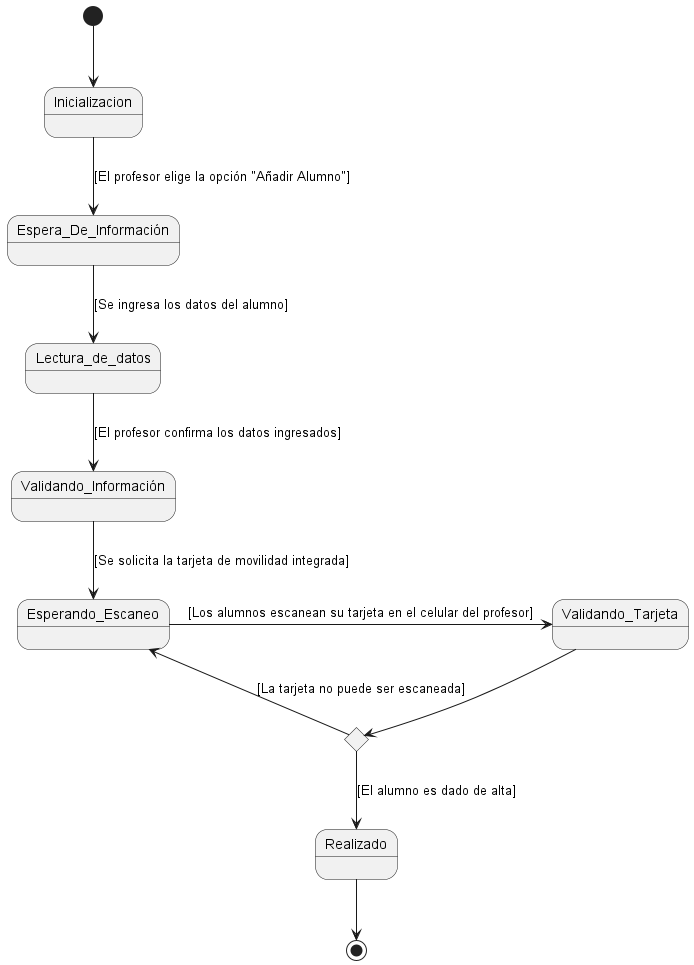
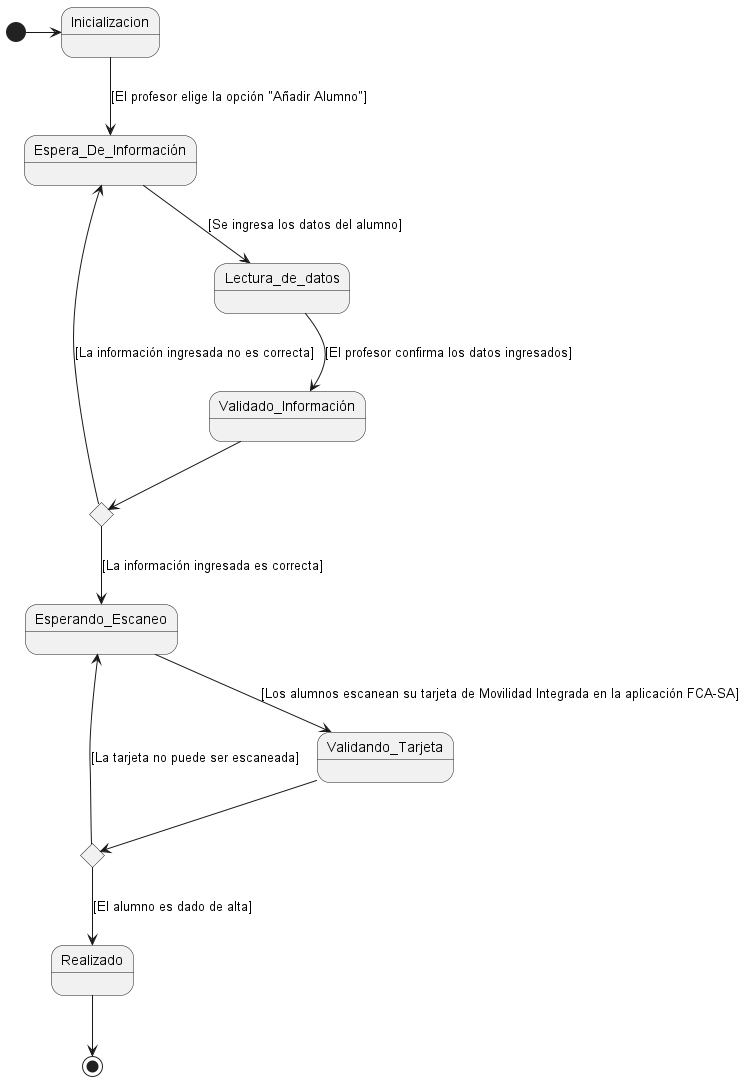
FCA SA: Correcciones
Se corrigen los Diagramas de Estados
Se agregan definiciones

diff --git a/Diseño/04_definitions/Definiciones.md b/Diseño/04_definitions/Definiciones.md
@@ -4,6 +4,7 @@
 |:-:|:-|:-|
 | Android | Es un sistema operativo de código abierto diseñado para dispositivos móviles, dirigido por Google | [Android Open Source Project] |
 | APK | Es una extensión para paquetes para el sistema Operativo Android, usado para distribuir e instalar componentes compatibles en con el sistema | [TICs en educación: nuevas herramientas y nuevos paradigmas] |
+| DAO | Data Access Object es un patrón de diseño que separa la interfaz de cliente de la capa de acceso a datos para aislar la forma en que se realizan las operaciones de persistencia | [Desing Patterns: Data Access Object] | 
 | Especificación Calypso | Es un estándar de peaje seguro que detalla cómo transmitir datos de forma segura entre una tarjeta y un lector | [Especifiaciones Calypso - Calypso Networks Association] |
 | ISO 14443 | Es un protocolo de comunicación de proximidad internacional para tarjetas inteligentes operando a 13.56 MHz | [ISO/IEC 14443-1:2018] |
 | iText | Es una biblioteca de código abierto para crear y manipular archivos PDF en Java y .NET | [iText Suite] |
@@ -15,6 +16,8 @@
 | Tarjeta MI | Es el medio de pago electrónico sin contacto mediante tecnología NFC y basado en el estándar internacional Calypso, para el transporte público de la Ciudad de México | [Enterate. Lo que debes saber sobre la nueva tarjeta de Movilidad Integrada CDMX] |
 
 [Android Open Source Project]: https://source.android.com/?hl=es-419
+
+[Desing Patterns: Data Access Object]: https://www.oracle.com/java/technologies/data-access-object.html
 
 [TICs en educación: nuevas herramientas y nuevos paradigmas]: http://sedici.unlp.edu.ar/handle/10915/18457
 

diff --git a/Diseño/06_design/Diagrama_de_Estados/DE_002.md b/Diseño/06_design/Diagrama_de_Estados/DE_002.md
@@ -1,31 +1,25 @@
 ![Diagrama_de_Estados](DE_002.png)
  
  <!--
-@startuml DE_002
+@startuml DE_002.png
 
-
+state c <<choice>>
 state c1 <<choice>>
 
+[*] -> Inicializacion
+Inicializacion --> Espera_De_Información : [El profesor elige la opción "Añadir Alumno"]
+Espera_De_Información --> Lectura_de_datos : [Se ingresa los datos del alumno]
+Lectura_de_datos --> Validado_Información : [El profesor confirma los datos ingresados]
 
-[*] -down-> Inicializacion
+Validado_Información --> c
+c --> Espera_De_Información : [La información ingresada no es correcta]
 
-Inicializacion -down-> Espera_De_Información : [El profesor elige la opción "Añadir Alumno"]
-
-Espera_De_Información -down-> Lectura_de_datos : [Se ingresa los datos del alumno]
-
-Lectura_de_datos -down-> Validando_Información : [El profesor confirma los datos ingresados]
-
-Validando_Información -down-> Esperando_Escaneo : [Se solicita la tarjeta de movilidad integrada]
-
-Esperando_Escaneo -> Validando_Tarjeta : [Los alumnos escanean su tarjeta en el celular del profesor]
-
-Validando_Tarjeta -down-> c1
- 
-c1 -down-> Esperando_Escaneo : [La tarjeta no puede ser escaneada]
-
-c1 -down-> Realizado : [El alumno es dado de alta]
-
-Realizado -down-> [*]
+c --> Esperando_Escaneo : [La información ingresada es correcta]
+Esperando_Escaneo --> Validando_Tarjeta : [Los alumnos escanean su tarjeta de Movilidad Integrada en la aplicación FCA-SA]
+Validando_Tarjeta --> c1
+c1 --> Esperando_Escaneo : [La tarjeta no puede ser escaneada]
+c1 --> Realizado : [El alumno es dado de alta]
+Realizado --> [*]
 
 @enduml
 

diff --git a/Diseño/06_design/Diagrama_de_Estados/DE_001.md b/Diseño/06_design/Diagrama_de_Estados/DE_001.md
@@ -6,26 +6,17 @@
 
 state c1 <<choice>>
 
-[*] -down-> Inicializacion
+[*] -> Inicializacion
+Inicializacion --> Espera_De_Información : [El profesor elige la opción "Registrar Asistencia"]
+Espera_De_Información --> Validando_Información : [El profesor elige la materia a registrar asistencia]
+Validando_Información --> Esperando_Tarjeta : [Información valida]
 
-Inicializacion -down-> Espera_De_Información : [El profesor elige la opción "Registrar Asistencia"] 
-
-
-Espera_De_Información -down-> Validando_Información : [El profesor elige la materia a registrar asistencia] 
-
-Validando_Información -down-> Esperando_Tarjeta : [Información valida] 
-
-Esperando_Tarjeta -> Validando_Tarjeta : [Los alumnos escanean su tarjeta en el la app FCA-SA] 
-
-Validando_Tarjeta -down-> c1 
-
-c1 -> Esperando_Tarjeta : [Información no valida (Rechazada)]
-
-c1 -down-> Actualizando_Asistencias : [Información valida(Aprobada)] 
-
-Actualizando_Asistencias -down-> Realizado : [La asistencia es tomada] 
-
-Realizado -down-> [*] 
+Esperando_Tarjeta --> Validando_Tarjeta : [Los alumnos escanean su tarjeta de Mobilidad Integrada en la app FCA-SA]
+Validando_Tarjeta --> c1
+c1 --> Esperando_Tarjeta : [La información no valida]
+c1 --> Actualizando_Asistencias : [La información es valida]
+Actualizando_Asistencias --> Realizado : [La asistencia es tomada]
+Realizado --> [*]
 
 @enduml
 

diff --git a/Diseño/03_references/Referencias.md b/Diseño/03_references/Referencias.md
@@ -4,6 +4,8 @@
 
 - Cataldi, Z. (2012). TICs en educación: nuevas herramientas y nuevos paradigmas. http://sedici.unlp.edu.ar/handle/10915/18457
 
+- Design patterns: Data access object. (n.d.). https://www.oracle.com/java/technologies/data-access-object.html
+
 - ISO/IEC 14443-1:2018(en), Cards and security devices for personal identification — Contactless proximity objects — Part 1: Physical characteristics. (n.d.). https://www.iso.org/obp/ui/en/#iso:std:iso-iec:14443:-1:ed-4:v1:en
 
 - libnfc | Kali Linux Tools. (n.d.). Kali Linux. https://www.kali.org/tools/libnfc/
